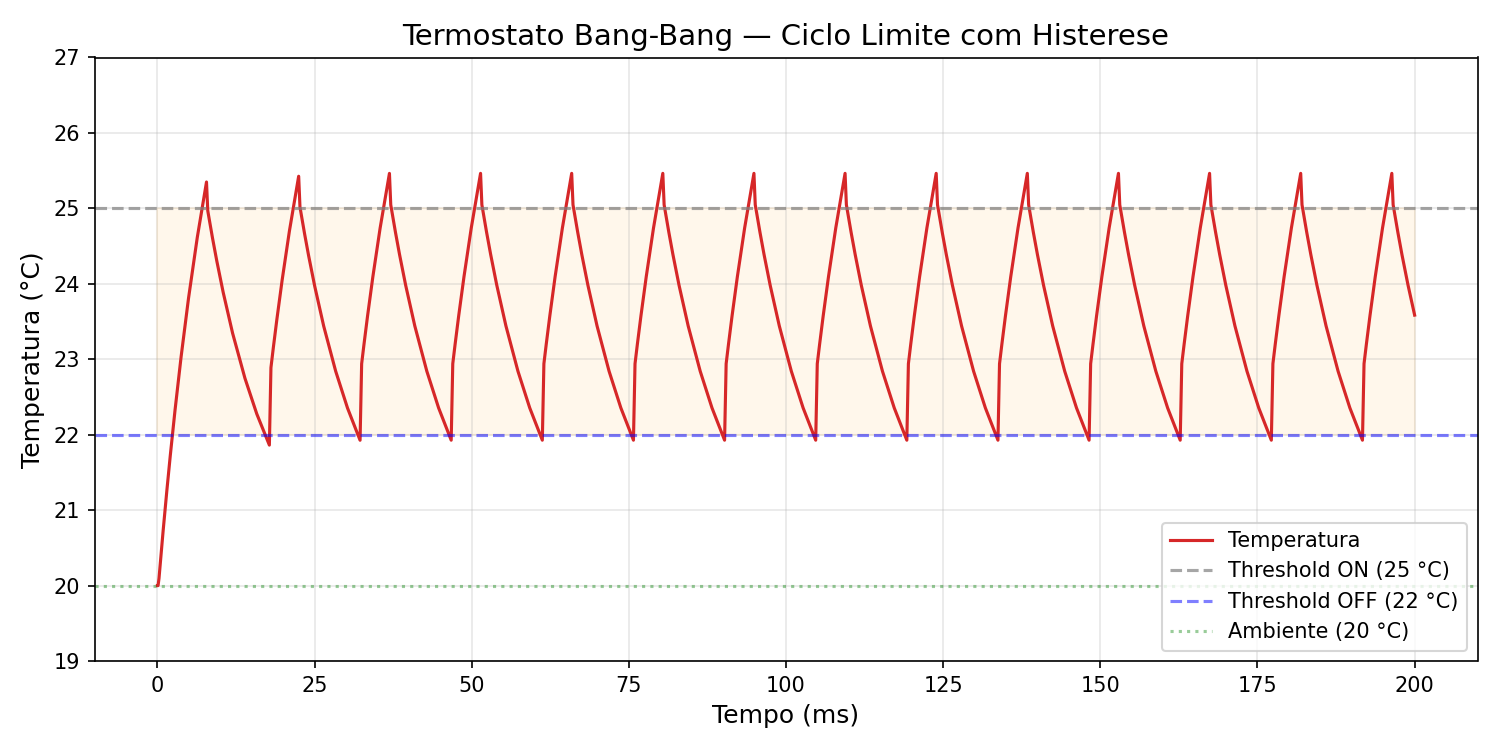
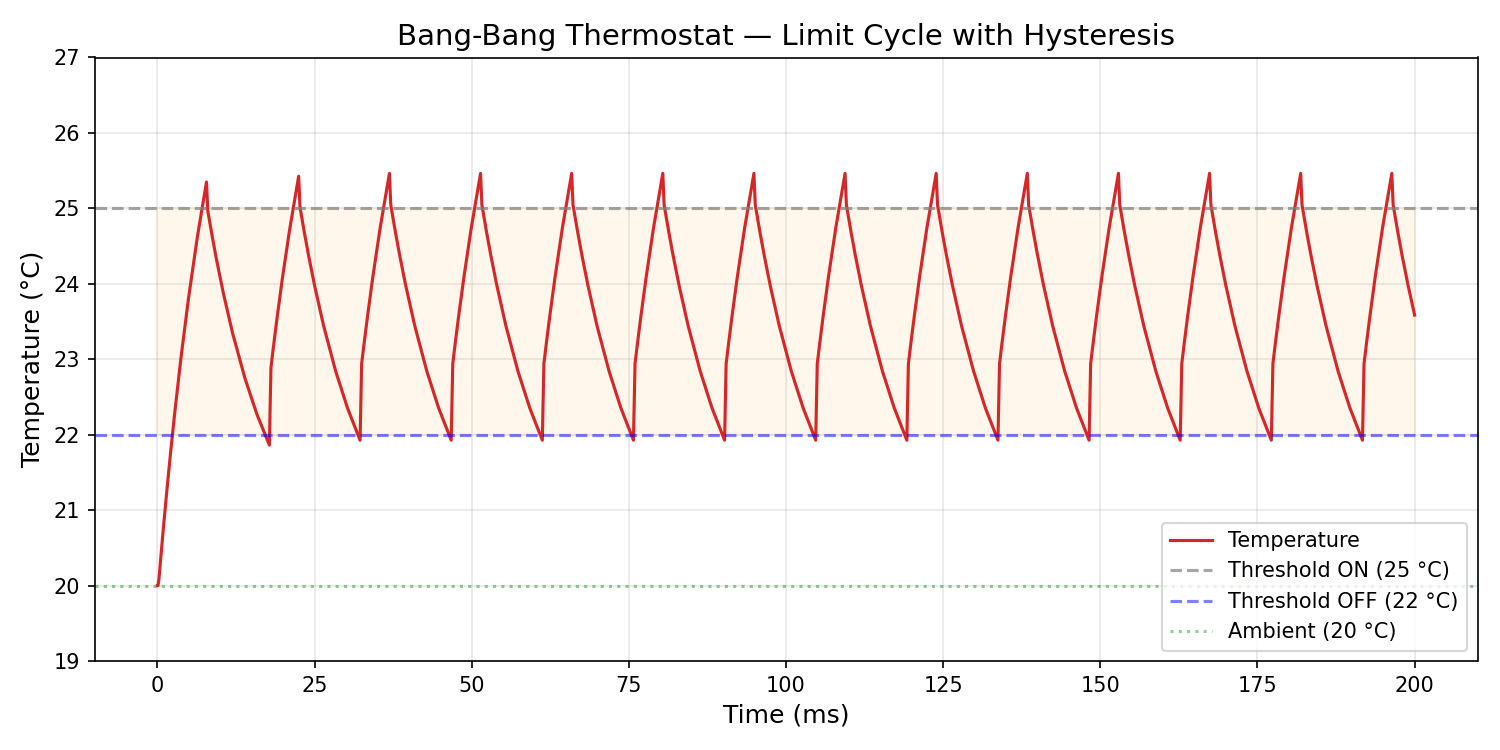
docs(examples): English plot labels + RC step / Johnson noise / mixed-signal ADC plots
- Convert 07_thermostat_plot labels to English.
- 22_rc_step_response: RC low-pass step response (tran) with analytic
  overlay; bench validates 1τ/2τ/5τ landmarks.
- 08_johnson_noise_plot: Johnson-Nyquist PSD (nV/√Hz) log-log vs √(4kTR)
  plateau, fc corner, integrated √(kT/C); ASCII preview in terminal.
- 23_mixed_signal_adc: ramp-driven 3-comparator ADC transient showing
  both bridges — A2D (digital block reads analog ramp) and D2A (analog
  block reconstructs staircase from digital bits); plot has analog ramp
  + reconstruction on top, digital bits on bottom.

diff --git a/examples/08_johnson_noise_plot.py b/examples/08_johnson_noise_plot.py
@@ -1,0 +1,61 @@
+import os, sys, math, piperine
+import matplotlib
+matplotlib.use("Agg")
+import matplotlib.pyplot as plt
+import numpy as np
+
+P = os.path.join(os.path.dirname(__file__), "08_johnson_noise.phdl")
+m = piperine.load(P).module("NoiseCell")
+
+# R=1k, C=1n, T=300K.  Plateau 4kTR ≈ 1.657e-17 V²/Hz (4.07 nV/√Hz),
+# corner fc = 1/(2π·R·C) ≈ 159 kHz, integrated RMS = √(kT/C) ≈ 2.03 µV.
+n = m.noise(piperine.NoiseConfig(out="out", fstart=1.0, fstop=1e7, points=200))
+psd = n.psd()                       # V²/Hz waveform over frequency
+freqs = np.array(psd.axis)
+psd_v2 = np.array(psd.values)       # V²/Hz
+psd_vrthz = np.sqrt(psd_v2)         # V/√Hz
+total_rms = n.total()               # V (RMS)
+
+FC = 1.0 / (2 * math.pi * 1e3 * 1e-9)
+PLATEAU = math.sqrt(1.657e-17)
+
+# ── PNG (log-log, nV/√Hz) ────────────────────────────────────────────────
+fig, ax = plt.subplots(figsize=(10, 5.5))
+ax.loglog(freqs, psd_vrthz * 1e9, linewidth=2.2, color="#1f77b4", label="Piperine (adjoint)")
+ax.axhline(PLATEAU * 1e9, color="#d62728", linestyle="--", alpha=0.7,
+           label=f"Plateau √(4kTR) = {PLATEAU*1e9:.2f} nV/√Hz")
+ax.axvline(FC, color="#2ca02c", linestyle=":", alpha=0.7, label=f"fc = {FC/1e3:.0f} kHz")
+ax.fill_between(freqs, 1e-3, psd_vrthz * 1e9, where=(freqs <= FC), alpha=0.06, color="#1f77b4")
+ax.annotate(f"Integrated noise = {total_rms*1e6:.2f} µVrms\n(√(kT/C))",
+            xy=(FC*0.02, PLATEAU*1e9*0.4), fontsize=10, color="#333333",
+            bbox=dict(boxstyle="round,pad=0.4", fc="#fff3cd", ec="#cca700"))
+ax.set_xlabel("Frequency (Hz)", fontsize=12)
+ax.set_ylabel("Spectral density (nV/√Hz)", fontsize=12)
+ax.set_title("Johnson–Nyquist Noise — 1 kΩ Resistor ‖ 1 nF  (T = 300 K)", fontsize=13)
+ax.legend(loc="lower left", fontsize=10)
+ax.set_ylim(0.01, 20)
+ax.grid(True, which="both", alpha=0.25)
+fig.tight_layout()
+out = os.path.join(os.path.dirname(__file__), "08_johnson_noise_plot.png")
+fig.savefig(out, dpi=150)
+print(f"Plot saved to {out}\n")
+
+# ── ASCII log-log plot in the terminal ───────────────────────────────────
+print("Johnson noise — PSD (nV/√Hz) vs freq (log)   █ = Piperine   ┊ = √(4kTR)")
+print("─" * 72)
+W = 60
+def bar(v):
+    # log scale 0.01 .. 20 nV/√Hz  → 0..W
+    lo, hi = math.log10(0.01), math.log10(20.0)
+    x = (math.log10(max(v, 1e-12)) - lo) / (hi - lo)
+    return max(0, min(W, int(round(x * W))))
+for i in range(0, len(freqs), 8):
+    f = freqs[i]
+    v = psd_vrthz[i] * 1e9
+    line = "█" * bar(v)
+    marker = " ┊ plateau" if abs(math.log10(v) - math.log10(PLATEAU*1e9)) < 0.15 else ""
+    print(f"{f:>10.0f} Hz │{line:<{W}}│ {v:6.2f} nV/√Hz{marker}")
+print("─" * 72)
+print(f"  Plateau √(4kTR) = {PLATEAU*1e9:.2f} nV/√Hz   |   fc = {FC/1e3:.0f} kHz")
+print(f"  Integrated noise = {total_rms*1e6:.3f} µVrms   (theoretical √(kT/C) = {math.sqrt(1.38e-23*300/1e-9)*1e6:.3f} µV)")
+sys.stdout.flush()

diff --git a/examples/23_mixed_signal_adc.py b/examples/23_mixed_signal_adc.py
@@ -1,0 +1,56 @@
+import os, sys, piperine
+import matplotlib
+matplotlib.use("Agg")
+import matplotlib.pyplot as plt
+import numpy as np
+
+P = os.path.join(os.path.dirname(__file__), "23_mixed_signal_adc.phdl")
+m = piperine.load(P).module("AdcDemo")
+
+# Ramp 0 → 4 V over 10 µs; A2D samples the ramp each step, D2A reconstructs.
+t = m.tran(piperine.TranConfig(stop=1e-5, step=2e-7))
+axis = np.array(t.v("vin", "gnd").axis) * 1e6          # µs
+vin  = np.array(t.v("vin", "gnd").values)              # analog ramp
+rec  = np.array(t.v("rec", "gnd").values)              # analog reconstruction
+d0   = np.array(t.v("d0").values)                      # digital bit (LSB)
+d1   = np.array(t.v("d1").values)
+d2   = np.array(t.v("d2").values)                      # digital bit (MSB)
+
+fig, (ax_a, ax_d) = plt.subplots(2, 1, figsize=(11, 7), sharex=True,
+                                 gridspec_kw={"height_ratios": [1.5, 1], "hspace": 0.12})
+
+# ── Top: analog domain (ramp + reconstructed staircase) ───────────────────
+ax_a.plot(axis, vin, linewidth=2.2, color="#1f77b4", label="vin  (analog ramp)")
+ax_a.step(axis, rec, where="post", linewidth=2.0, color="#d62728",
+          label="rec  (D2A reconstruction)")
+for thr, col in [(1.0, "#2ca02c"), (2.0, "#9467bd"), (3.0, "#8c564b")]:
+    ax_a.axhline(thr, color=col, linestyle=":", alpha=0.5)
+    ax_a.annotate(f"{thr:.0f} V", xy=(axis[-1] * 0.99, thr + 0.05),
+                  fontsize=8, color=col, ha="right")
+ax_a.set_ylabel("Voltage (V)", fontsize=12)
+ax_a.set_title("Mixed-Signal Transient — Ramp-Driven 3-Comparator ADC\n"
+               "(A2D bridge: digital block reads analog · D2A bridge: analog block reads digital)",
+               fontsize=12)
+ax_a.legend(loc="upper left", fontsize=10)
+ax_a.set_ylim(-0.2, 4.4)
+ax_a.grid(True, alpha=0.3)
+
+# ── Bottom: digital domain (comparator output bits) ───────────────────────
+for i, (bit, name, col) in enumerate([(d2, "d2 (MSB, >3 V)", "#8c564b"),
+                                      (d1, "d1      (>2 V)", "#9467bd"),
+                                      (d0, "d0 (LSB, >1 V)", "#2ca02c")]):
+    ax_d.step(axis, bit + i * 2.4, where="post", linewidth=2.0, color=col, label=name)
+    ax_d.axhline(i * 2.4, color="gray", linewidth=0.5, alpha=0.3)
+    ax_d.text(axis[0] - 0.15, i * 2.4 + 0.5, name, fontsize=9, color=col, va="center")
+ax_d.set_ylabel("Logic level", fontsize=12)
+ax_d.set_xlabel("Time (µs)", fontsize=12)
+ax_d.set_yticks([0, 1, 2.4, 3.4, 4.8, 5.8])
+ax_d.set_yticklabels(["0", "1", "0", "1", "0", "1"])
+ax_d.set_ylim(-0.4, 6.6)
+ax_d.grid(True, axis="x", alpha=0.3)
+
+fig.tight_layout()
+out = os.path.join(os.path.dirname(__file__), "23_mixed_signal_adc.png")
+fig.savefig(out, dpi=150)
+print(f"Plot saved to {out}")
+sys.stdout.flush()

diff --git a/examples/22_rc_step_response.py b/examples/22_rc_step_response.py
@@ -1,0 +1,43 @@
+import os, sys, math, piperine
+import matplotlib
+matplotlib.use("Agg")
+import matplotlib.pyplot as plt
+import numpy as np
+
+P = os.path.join(os.path.dirname(__file__), "22_rc_step_response.phdl")
+m = piperine.load(P).module("RcStep")
+
+# Step response: 1 V source, cap starts at 0 V, charges through R.
+# tau = R*C = 1e3 * 100e-9 = 100e-6 s.  Simulate 6 tau.
+TAU = 1e3 * 100e-9
+t = m.tran(piperine.TranConfig(stop=6e-4, step=2e-6, ic={"out": 0.0}))
+v = t.v("out", "gnd")
+
+axis = np.array(v.axis)
+vals = np.array(v.values)
+analytic = 1.0 - np.exp(-axis / TAU)
+
+fig, ax = plt.subplots(figsize=(10, 5.5))
+ax.plot(axis * 1e6, vals, linewidth=2.2, color="#1f77b4", label="Piperine (TR-BDF2)")
+ax.plot(axis * 1e6, analytic, linewidth=1.4, linestyle="--", color="#d62728",
+        label=r"Analytic  $1 - e^{-t/\tau}$")
+for k, col in [(1, "#2ca02c"), (2, "#9467bd"), (5, "#8c564b")]:
+    ax.axvline(k * TAU * 1e6, color=col, linestyle=":", alpha=0.6)
+    ax.annotate(f"{k}τ", xy=(k * TAU * 1e6, 0.06), fontsize=10, color=col,
+                ha="center")
+ax.axhline(1.0, color="gray", linestyle="-", alpha=0.3)
+ax.axhline(0.6321, color="#2ca02c", linestyle=":", alpha=0.35)
+ax.annotate("63.2% @ 1τ", xy=(1.5 * TAU * 1e6, 0.6321), fontsize=9, color="#2ca02c")
+
+ax.set_xlabel("Time (µs)", fontsize=12)
+ax.set_ylabel("V_out (V)", fontsize=12)
+ax.set_title("RC Low-Pass Step Response (τ = 100 µs)", fontsize=14)
+ax.legend(loc="lower right", fontsize=11)
+ax.set_ylim(-0.02, 1.08)
+ax.grid(True, alpha=0.3)
+fig.tight_layout()
+
+out = os.path.join(os.path.dirname(__file__), "22_rc_step_response.png")
+fig.savefig(out, dpi=150)
+print(f"Plot saved to {out}")
+sys.stdout.flush()

diff --git a/examples/07_thermostat_plot.py b/examples/07_thermostat_plot.py
@@ -14,15 +14,15 @@ axis = np.array(temp.axis)
 vals = np.array(temp.values)
 
 fig, ax = plt.subplots(figsize=(10, 5))
-ax.plot(axis * 1000, vals, linewidth=1.5, color="#d62728", label="Temperatura")
+ax.plot(axis * 1000, vals, linewidth=1.5, color="#d62728", label="Temperature")
 ax.axhline(25.0, color="gray", linestyle="--", alpha=0.7, label="Threshold ON (25 °C)")
 ax.axhline(22.0, color="blue", linestyle="--", alpha=0.5, label="Threshold OFF (22 °C)")
-ax.axhline(20.0, color="green", linestyle=":", alpha=0.4, label="Ambiente (20 °C)")
+ax.axhline(20.0, color="green", linestyle=":", alpha=0.4, label="Ambient (20 °C)")
 ax.fill_between(axis * 1000, 22, 25, alpha=0.08, color="orange")
 
-ax.set_xlabel("Tempo (ms)", fontsize=12)
-ax.set_ylabel("Temperatura (°C)", fontsize=12)
-ax.set_title("Termostato Bang-Bang — Ciclo Limite com Histerese", fontsize=14)
+ax.set_xlabel("Time (ms)", fontsize=12)
+ax.set_ylabel("Temperature (°C)", fontsize=12)
+ax.set_title("Bang-Bang Thermostat — Limit Cycle with Hysteresis", fontsize=14)
 ax.legend(loc="lower right", fontsize=10)
 ax.set_ylim(19, 27)
 ax.grid(True, alpha=0.3)
@@ -30,4 +30,4 @@ fig.tight_layout()
 
 out = os.path.join(os.path.dirname(__file__), "07_thermostat_plot.png")
 fig.savefig(out, dpi=150)
-print(f"Plot salvo em {out}")
+print(f"Plot saved to {out}")